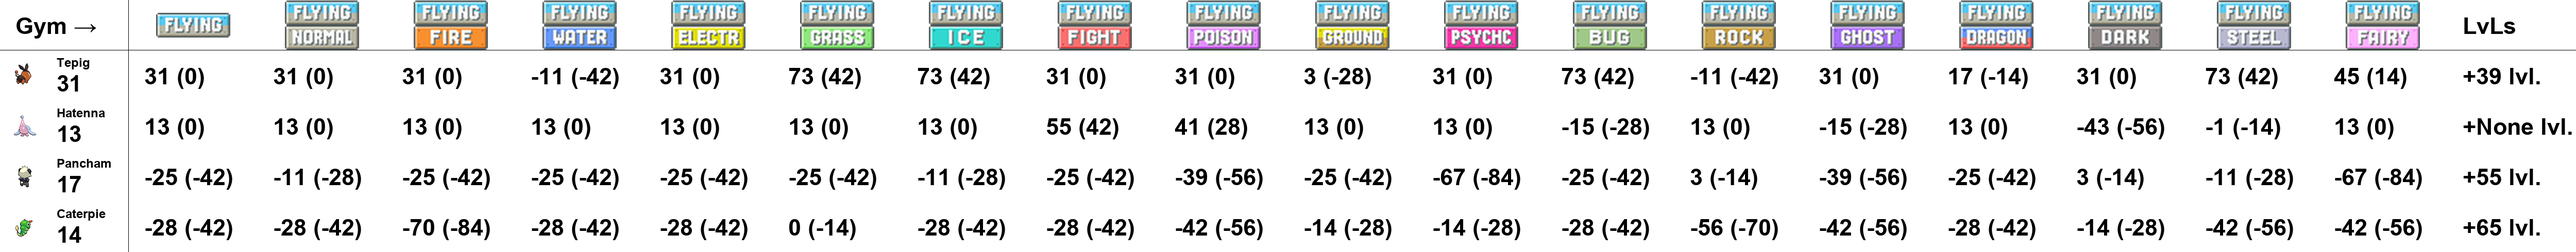
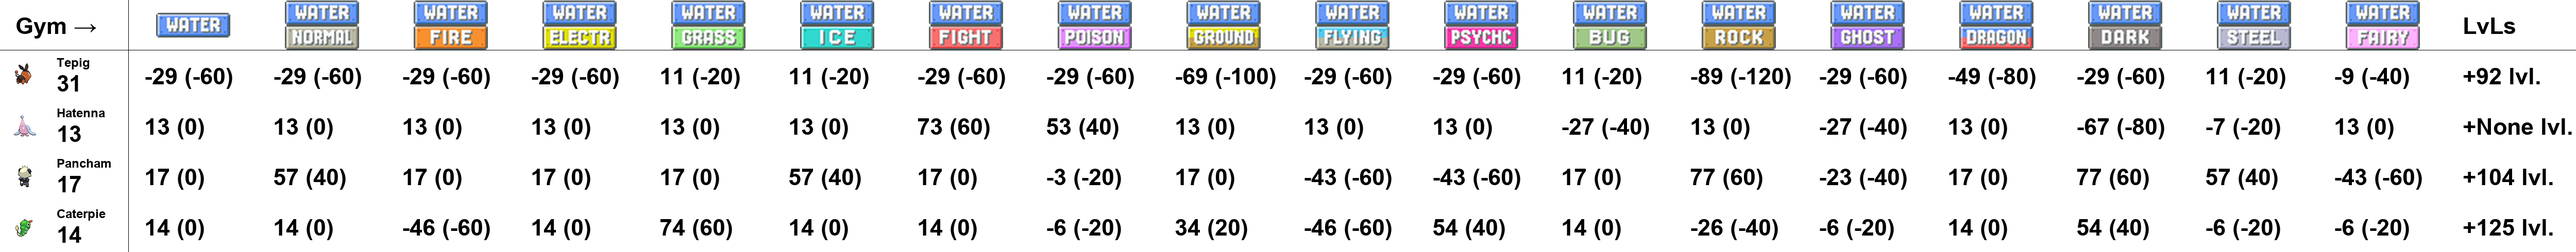
fixed gyms (created more problems)

diff --git a/home/MawileBot/src/poke_lib.py b/home/MawileBot/src/poke_lib.py
@@ -148,6 +148,13 @@ async def check_route(chat_id):
 
     return data[chat_id]["route"]
 
+def get_casella():
+    start = STARTING_DATE
+    today = datetime.now().date()
+    pausa = EVENTUALE_PAUSA
+    casella = int(((today-start).days-pausa)/2)
+    return casella
+
 async def add_route(chat_id, route):
 
     jsonFile = open(ENV_PATH+"/secret_player_data.json", "r") # Open the JSON file for reading
@@ -436,8 +443,11 @@ def poke_gym(chat_id, gym):
                 enemy = gym_data[gym]["team"]   
     else:
         enemy = gym_data[gym]["actual_team"]
-    enemy_powers = gym_data[gym]["power"]
-    multiplier = gym_data[gym]["multiplier"]
+
+    order_of_gym_types = gym_data["order_of_gym_types"]
+    casella = gym_data["gym_cell"][order_of_gym_types.index(gym)]
+
+    _, _, enemy_powers, multiplier, _ = poke_cell_gym(casella-1)
 
     team_with_level = [[pokemon[0], pokemon[1]] for pokemon in priv_data[chat_id]["team"] if pokemon[0]]
     necessary_lvls = {}
@@ -445,7 +455,7 @@ def poke_gym(chat_id, gym):
         try:
             necessary_lvls[p[0]] = get_gym_results(gym, gym_data, p[0], p[1], chat_id)[-1]
         except:
-            necessary_lvls[p[0]] = None#Da fixare
+            necessary_lvls[p[0]] = None # Da fixare
     
     #print(f"Team: {team_with_level}\nEnemy: {enemy}\nEnemy Powers: {enemy_powers}\nMultiplier: {multiplier}\nNecessary Levels: {necessary_lvls}")
 
@@ -541,8 +551,19 @@ def match_table(team,enemy,multiplier,limits = None, necessary_lvls=None):
         tab.columns = cols
     return(bonus_netti,tab)
 
-
-
+def poke_cell_gym(casella):
+    multiplier = 5 + 3*int(casella/7)
+    if casella < 42:
+        aumento = int(casella/14) + 2
+        low_power = int((LvL[casella]-aumento)*coeff[int(casella/7)])
+        mid_power = int((LvL[casella])*coeff[int(casella/7)])
+        high_power = int((LvL[casella]+aumento)*coeff[int(casella/7)])
+        super_power = int((LvL[casella]+2*aumento)*coeff[int(casella/7)])
+        trainer_power = [low_power,mid_power,high_power]
+        gym_power = [mid_power,mid_power,high_power,high_power,super_power,super_power]
+        return True, trainer_power, gym_power, multiplier, LvL[casella]
+    else:
+        return None
 
 def poke_cell(cell):
     start = STARTING_DATE
@@ -729,11 +750,7 @@ async def poke_trainer(chat_id,pokemons):
         priv_data = json.load(file)
     team = [[pokemon[0], get_power(pokemon[0], pokemon[1])] for pokemon in priv_data[chat_id]["team"] if pokemon[0]]
 
-
-    start = STARTING_DATE
-    today = datetime.now().date()
-    pausa = EVENTUALE_PAUSA
-    casella = int(((today-start).days-pausa)/2)
+    casella = get_casella()
 
     offset = 0
     while casella+1+offset not in gym_cell():
@@ -762,10 +779,7 @@ async def poke_encounter(chat_id,encounter):
     team = [[pokemon[0], get_power(pokemon[0], pokemon[1])] for pokemon in priv_data[chat_id]["team"] if pokemon[0]]
     route = priv_data[chat_id]["route"]
 
-    start = STARTING_DATE
-    today = datetime.now().date()
-    pausa = EVENTUALE_PAUSA
-    casella = int(((today-start).days-pausa)/2)
+    casella = get_casella()
 
     offset = 0
     while casella+1+offset in gym_cell():
@@ -918,10 +932,7 @@ def get_wins(pokemon, livello, all_types_combo, multiplier, limits):
 
 def poke_gym_test(chat_id, pokemon, livello=0, next=4):
 
-    start = STARTING_DATE
-    today = datetime.now().date()
-    pausa = EVENTUALE_PAUSA
-    casella = int(((today-start).days-pausa)/2)
+    casella = get_casella()
 
     offset = 0
     while casella+1 > gym_cell()[offset]:
@@ -950,9 +961,13 @@ def get_gym_results(gym, gym_data, pokemon, livello, chat_id):
             enemy = gym_data[gym]["team"]   
     else:
         enemy = gym_data[gym]["actual_team"]
-    enemy_powers = gym_data[gym]["power"]
+
+    order_of_gym_types = gym_data["order_of_gym_types"]
+    casella = gym_data["gym_cell"][order_of_gym_types.index(gym)]
+
+    _, _, enemy_powers, multiplier, _ = poke_cell_gym(casella-1)
+
     limits = [enemy_powers[0],enemy_powers[2],enemy_powers[4]]
-    multiplier = gym_data[gym]["multiplier"]
 
     all_types_combo = generate_all_types_combo(enemy[1])
 

diff --git a/home/MawileBot/src/Commands.py b/home/MawileBot/src/Commands.py
@@ -31,7 +31,7 @@ else:
 from poke_lib import calculate_bonus_answer, random_pokemon, random_player, get_power, poke_evo_level,format_types_emoji
 from poke_lib import add_new_player, poke_lega_single, poke_lega_all, poke_gym, poke_exist, poke_dex1, poke_dex2, poke_cell
 from poke_lib import add_route,check_route, poke_check_if_evo, poke_fight, poke_counter, has_a_team, poke_gym_test, poke_lega_team_team
-from poke_lib import automatic_card_reader, gym_types, gym_cell
+from poke_lib import automatic_card_reader, gym_types, gym_cell, poke_cell_gym
 # ----------------------------------------------------------------- GENERIC COMMANDS --------------------------------------------------------------------------------
 
 async def cancel(update: Update, context: ContextTypes.DEFAULT_TYPE) -> int:
@@ -544,8 +544,11 @@ async def gym_button(update: Update, context: ContextTypes.DEFAULT_TYPE) -> int:
         chat_id = update.effective_chat.id
         with open(ENV_PATH+'/gym_data.json', 'r') as file:
             gym_data = json.load(file)
-        enemy_powers = gym_data[gym_type]["power"]
-        temp_multi   = gym_data[gym_type]["multiplier"]
+        
+        order_of_gym_types = gym_data["order_of_gym_types"]
+        casella = gym_data["gym_cell"][order_of_gym_types.index(gym_type)]
+        _, _, enemy_powers, temp_multi, _ = poke_cell_gym(casella-1)
+
         await query.edit_message_text(f"Il moltiplicatore della palestra sarà {temp_multi}\n\nAttendi per la foto...")
         # Call the poke_gym function
         image_path = poke_gym(str(chat_id), gym_type)
